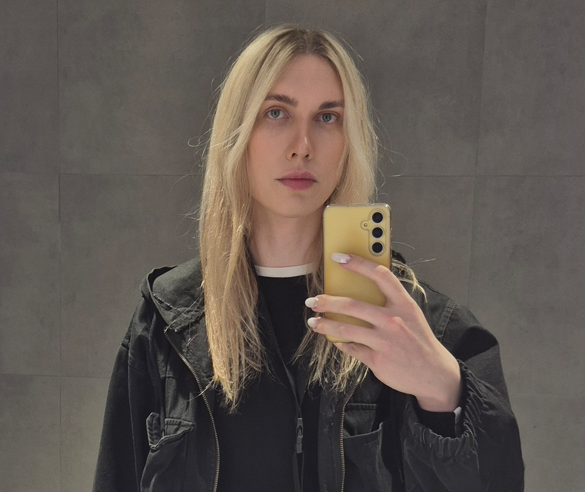
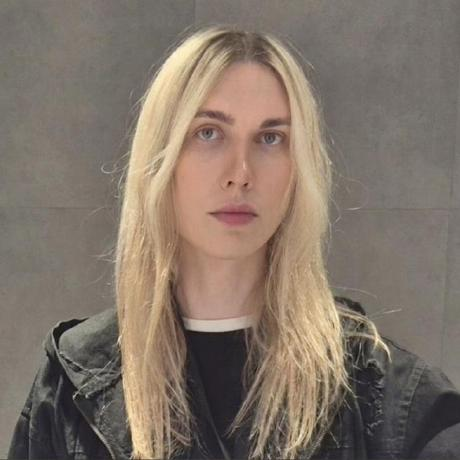
Addjustments

diff --git a/index.html b/index.html
@@ -24,21 +24,27 @@
   </header>
   <main>
     <section id="home" class="hero container">
-      <img class="avatar preview-trigger" src="assets/images/profile.jpg" alt="Profile photo of Kornelia">
+      <img class="avatar preview-trigger" src="assets/images/profile1.jpg" alt="Profile photo of Kornelia">
       <div class="hero-text">
         <h1>Hi, my name is Nel</h1>
         <p class="lead">Active Directory and Remote Access Administrator with French</p>
               <p class="language-skills">
-        <span class="language-chip"><img class="flag" src="assets/flags/pl.svg" alt="Polish flag"> PL</span>
-        <span class="language-chip"><img class="flag" src="assets/flags/us.svg" alt="UK flag"> EN</span>
-        <span class="language-chip"><img class="flag" src="assets/flags/fr.svg" alt="French flag"> FR</span>
+        <span class="language-chip"><img class="flag" src="assets/flags/pl.svg" alt="Polish flag"> native</span>
+        <span class="language-chip"><img class="flag" src="assets/flags/fr.svg" alt="French flag"> C1</span>
+        <span class="language-chip"><img class="flag" src="assets/flags/us.svg" alt="UK flag"> C1 </span>
       </p>
       </div>
     </section>
 
     <section id="about" class="container about">
       <h2>About</h2>
-      <p>IT professional with over six years of experience, specializing in Python and PowerShell tools development, as well as in Windows system administration.</p>
+      <p>I started my IT career as a French-speaking Service Desk Analyst
+        and gradually progressed into infrastructure administration and automation development.
+        Today, I work with Active Directory, RDS, Citrix, and Windows Server environments
+        while developing PowerShell solutions that help teams automate repetitive tasks
+        and improve operational efficiency. Although my academic background is in linguistics,
+        technology has always been my passion. I enjoy learning new tools, solving complex
+        technical challenges, and turning ideas into practical solutions.</p>
     </section>
 
     <section id="projects" class="container projects">
@@ -58,8 +64,8 @@
               and CSV logging for auditability.</p>
           </div>
           <p class="card-actions">
-            <a href="#" class="preview-trigger" data-src="assets/template_.html">Mail notification preview</a>
-            · <a href="#" class="code-trigger" data-src="assets/template_.html">HTML code</a>
+            <a href="#" class="preview-trigger" data-src="assets/template_KC.html">Mail notification preview</a>
+            · <a href="#" class="code-trigger" data-src="assets/template_empty.html">HTML code</a>
             · <a href="https://github.com/Kornelia-C/PowerShell/tree/main/Send-AccountExpirationNotification" class="repo-link" target="_blank" rel="noreferrer">GitHub repository</a>
           </p>
         </article>

diff --git a/assets/template_KC.html b/assets/template_KC.html
@@ -1,0 +1,80 @@
+<!DOCTYPE html>
+<html>
+<head>
+<meta charset="UTF-8">
+</head>
+
+<body style="margin:0; padding:0; background-color:#f4f6f8; font-family:Segoe UI, Arial, sans-serif;">
+
+<table width="100%" cellpadding="0" cellspacing="0" style="padding:20px;">
+<tr>
+<td align="center">
+
+<table width="600" cellpadding="0" cellspacing="0" style="background-color:#ffffff; padding:30px; border-radius:6px;">
+
+<tr>
+<td style="font-size:14px; color:#666;">
+<i>English version below.</i><br><br>
+</td>
+</tr>
+
+<!-- FR -->
+<tr>
+<td style="border-left:6px solid #d32f2f; padding-left:15px; padding-bottom:25px;">
+<strong>FR – Version française</strong><br><br>
+
+Bonjour Kornelia Ciszak,<br><br>
+
+Votre compte <b>domain.local/kornelia-ciszak</b> expire dans <b>12 jours</b>.<br>
+Si vous avez encore besoin de votre accès, merci de demander à votre responsable de créer un ticket <b>HELPME</b> pour prolonger vos droits.<br><br>
+
+Sans demande avant l'échéance, votre compte sera automatiquement désactivé et vous ne pourrez plus accéder aux ressources du groupe.<br><br>
+
+En cas de difficultés, merci de contacter le support informatique au 00 00 00 00 00.<br><br>
+
+Cordialement,<br>
+L'équipe Active Directory
+
+<hr style="border:none; border-top:1px solid #ddd; margin-top:15px;">
+
+<span style="font-size:12px; color:#777;">
+Ceci est un message automatique, merci de ne pas répondre à cet e-mail.
+</span>
+
+</td>
+</tr>
+
+<!-- EN -->
+<tr>
+<td style="border-left:6px solid #1976d2; padding-left:15px; padding-top:25px;">
+<strong>EN – English version</strong><br><br>
+
+Hello Kornelia Ciszak,<br><br>
+
+Your account <b>domain.local/kornelia-ciszak</b> expires in <b>12 days</b>.<br>
+If you still need access, please ask your manager to create a <b>HELPME</b> ticket to extend your access rights.<br><br>
+
+Without a request before the deadline, your account will be automatically disabled and you will no longer be able to access group resources.<br><br>
+
+If you encounter any issues with your account, please contact IT support at 0 000 00 00 00.<br><br>
+
+Kind regards,<br>
+The Active Directory Team
+
+<hr style="border:none; border-top:1px solid #ddd; margin-top:15px;">
+
+<span style="font-size:12px; color:#777;">
+This is an automatic message, please do not reply to this email.
+</span>
+
+</td>
+</tr>
+
+</table>
+
+</td>
+</tr>
+</table>
+
+</body>
+</html>

diff --git a/css/styles.css b/css/styles.css
@@ -1,4 +1,3 @@
-/* Minimal, clean, responsive styles */
 :root{
   --bg:#ffffff;
   --text:#0f1720;
@@ -42,7 +41,7 @@ html,body{height:100%;margin:0;font-family:Inter, ui-sans-serif, system-ui, -app
 .image-modal-content pre{width:min(90vw, 900px);max-height:min(80vh, 700px);overflow:auto;background:#0f1720;color:#f8fafc;padding:1rem;border-radius:12px;box-shadow:0 20px 45px rgba(0,0,0,.35);font-family:SFMono-Regular, Consolas, 'Liberation Mono', Menlo, monospace;font-size:.9rem;line-height:1.5;white-space:pre-wrap;word-wrap:break-word;}
 .image-modal-close{position:absolute;top:1rem;right:1rem;border:0;background:#fff;color:#111;border-radius:999px;width:2.5rem;height:2.5rem;font-size:1.5rem;cursor:pointer}
 body.modal-open{overflow:hidden}
-/* Responsive */
+
 @media (max-width:800px){
   .project-grid{grid-template-columns:1fr}
   .hero{flex-direction:column;text-align:center;align-items:center}
